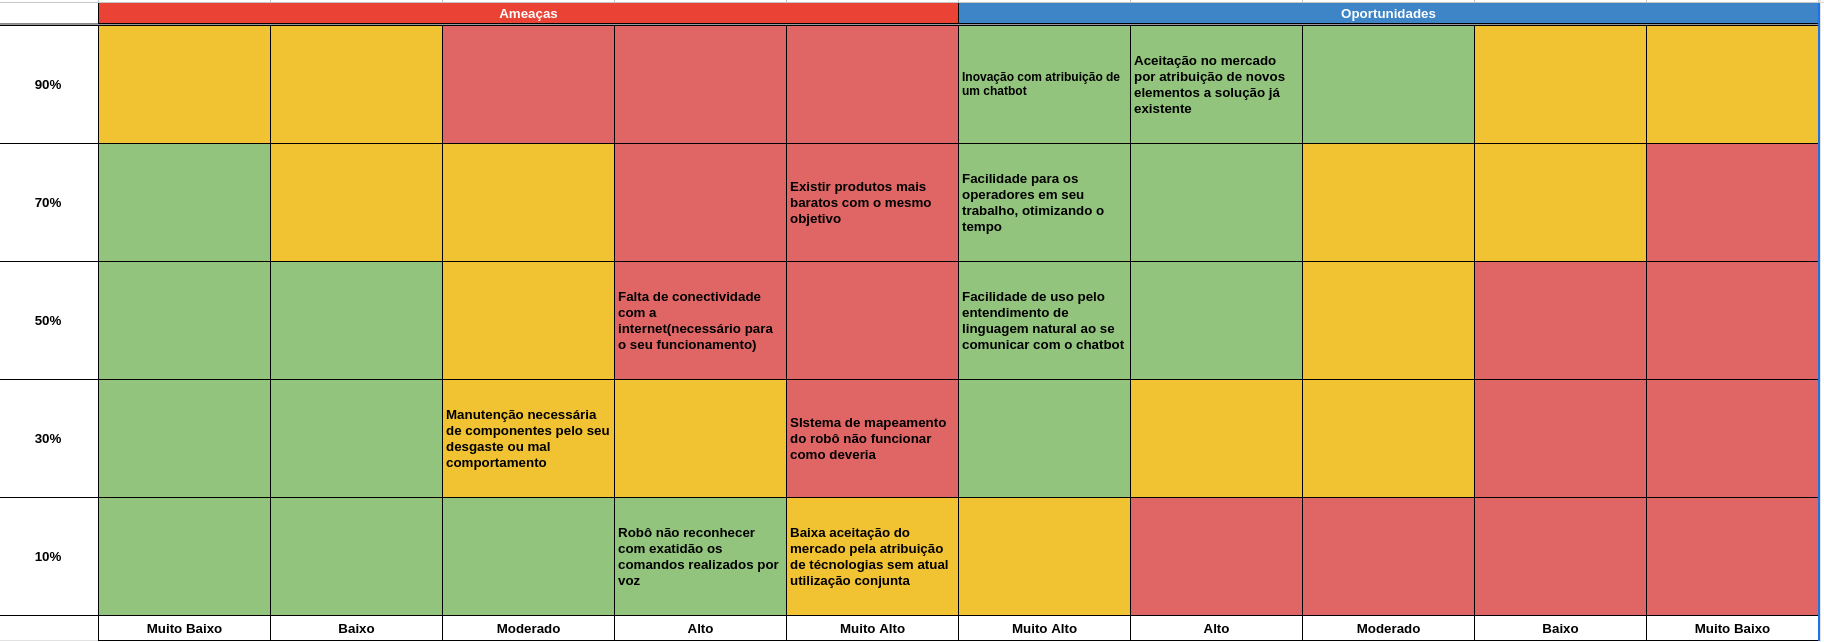
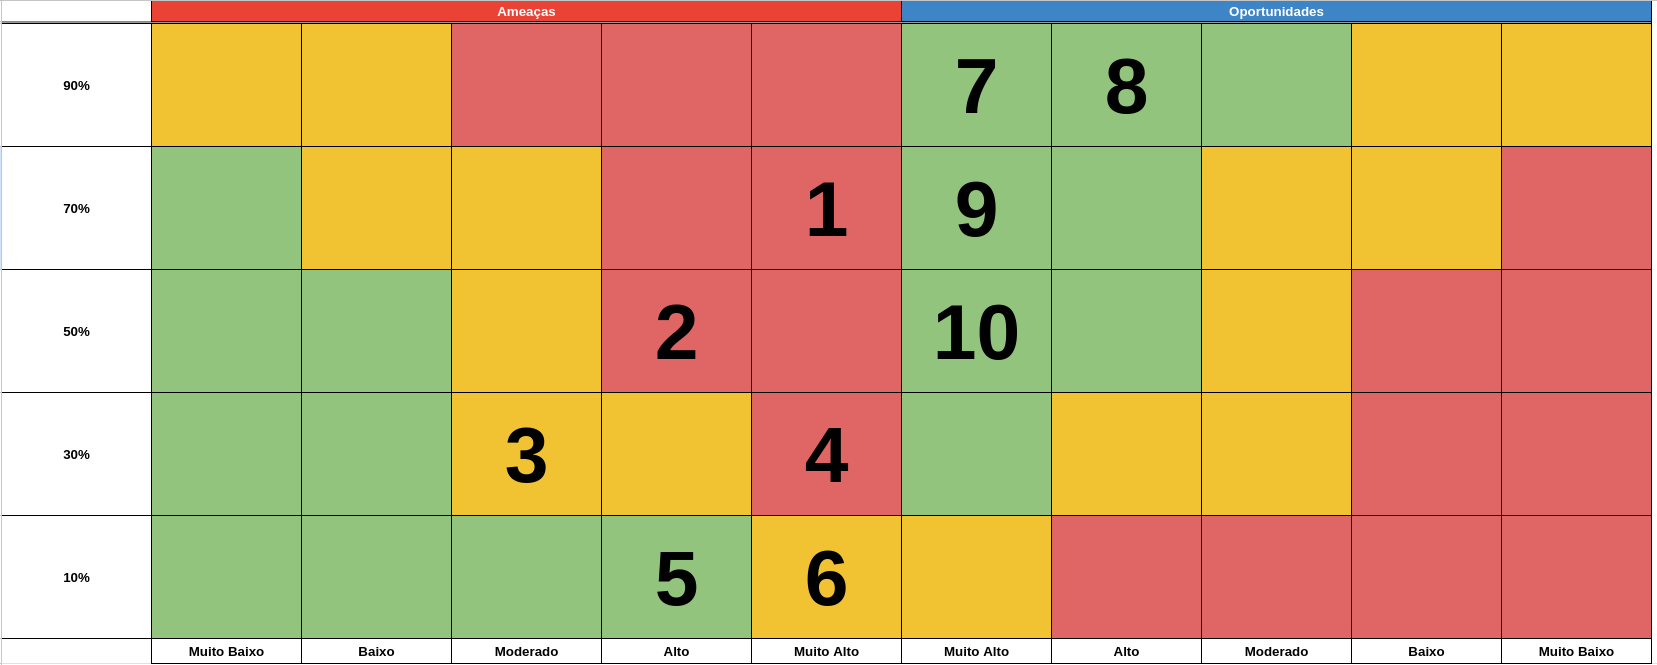
added analise financeira and matriz de riscos

diff --git a/docs/docs/business/analise-financeira.md b/docs/docs/business/analise-financeira.md
@@ -1,0 +1,37 @@
+---
+sidebar_position: 1
+---
+
+A análise financeira é uma análise fundamental para o projeto que pretendemos criar, onde o objetivo principal dessa métrica é encontrar os gastos previstos caso a Ambev decida continuar o desenvolvimento do projeto em escala industrial. Ao examinar minuciosamente os custos envolvidos, é possível ter uma previsão dos gastos considerando um ano de desenvolvimento com equipe, modelos de IA em nuvem para o processamento de Linguagem, o preço de um robô AVG indústrial e sua implementação e impostos.
+
+| Serviços MVP          | Preço p/ ano    | Preço p/ mês  |
+| --------------------- | --------------- | ------------- |
+| Equipe de projeto     | R$ 1.876.200,00 | R$ 156.350,00 |
+| NLP & Modelos         | R$ 98.625,00    | R$ 8.218,75   |
+| Robô AVG              | R$ 70.450,00    | R$ 5.870,83   |
+| Implementação         | R$ 3.554.685,00 | R$ 296.223,75 |
+| Total + Implementação | R$ 5.599.960,00 | R$ 637.102,92 |
+| Total + Imposto (18%) | R$ 6.829.219,51 | -             |
+
+Presentes na equipe encarregada pelo MVP, temos:
+- Engenheiros de Automação - 2 Juniors(2 x 10.800,00/mês) e 2 Plenos(2 x 12.000,00/mês);
+- Engenheiros de Software Embarcado - 2 Juniors(2 x 7.000,00/mês) e 2 Plenos(2 x 12.000,00/mês);
+- Engenheiros de Machine Learning - 2 Seniores(2 x 20.000,00/mês);
+- Gerente de Produtos - 1 Senior(1 x 21.000,00/mês);
+- Quality Assurance - 1 Senior(1 x 11.750,00/mês).
+
+Que juntos criam a equipe responsável pelo projeto, tornando possível a criação dos sistemas necessários.
+
+O custo associado a Robô, parte a partir do pressuposto que o robô utilizado será um Robô de tipo AGC(Automated Guide Cart), que é o mais próximo do utilizado em nossa POC, ele custará em torno de 14 mil doláres, sendo o preço de entrada para robôs direcionados a essa função.
+
+Enquanto o de modelos utilizados, parte do pressuposto que utilizaremos o IBM Watson para TTS(Text To Speech) e STT(Speech To Text) e o Amazon Comprehend para NLP(Natural Language Processing), necessários para a criação do nosso sistema de chatbot por voz.
+
+Com isso, temos também o preço de implementação e os impostos de projeto, finalizando em um total de **R$ 6.829.219,51**.
+
+| Serviço              | Preço p/ ano    | Preço p/ mês  |
+| -------------------- | --------------- | ------------- |
+| MVP                  | R$ 6.829.219,51 | R$ 569.101,63 |
+| Manutenção do produto| R$ 341.460,98   | R$ 28.455,08  |
+| Total em reais       | R$ 7.170.680,49 | R$ 597.556,71 |
+
+Caso seja necessário a manutenção pós criação do produto, estimamos o preço da manutenção necessária seja definido em 5% do valor do projeto e seus impostos somados, sendo avaliado em **R$ 341.460,98**.

diff --git a/docs/docs/business/matriz-de-risco.md b/docs/docs/business/matriz-de-risco.md
@@ -4,3 +4,23 @@ sidebar_position: 3
 
 # Matriz de Riscos
 ![Matriz de Risco Andevs](./img/matriz_de_risco.png)
+
+**1. Existir produtos mais baratos com o mesmo objetivo**: Baratear o projeto continuando com peças de alta qualidade, removendo elementos externos desnecessários
+
+**2. Falta de conectividade com a internet(necessário para o seu funcionamento)**: Armazenamento de informações já registradas localmente até ser reconectado na rede e ficando inoperante caso não esteja realizando nenhuma ação a fim de evitar problemas de funcionamento.
+
+**3. Manutenção necessária de componentes pelo seu desgaste ou mal comportamento**: O robô sinalizar caso necessite de manutenção através do LCD ou outra forma(chatbot, barulhos e afins)
+
+**4. Sistema de mapeamento do robô não funcionar como deveria**: Otimizar funções e definir padrões de qualidade a fim de criar um sistema mais conciso
+
+**5. Robô não reconhecer com exatidão os comandos realizados por voz**: Criar um padrão de qualidade para que o aúdio seja aceito e utilizar bibliotecas de manipulação de aúdio para eliminar ruidos e afins antes de enviar para processamento.
+
+**6. Baixa aceitação do mercado pela atribuição de técnologias sem atual utilização conjunta**: Demonstrar a importância da junção dessas tecnologias em questões de acessibilidade e a facilitação de tarefas e entendimento necessário.
+
+**7. Inovação com atribuição de um chatbot**: A atribuição de um chatbot promove a acessibilidade a pessoas com dificuldade para se expressar, além de possuir TTS(Text To Speech) e STT(Speech To Text) em junção ao chat para pessoas cegas.
+
+**8. Aceitação no mercado por atribuição de novos elementos a solução já existente**: Atribuição do projeto por parte da AMBEV e outras empresas, buscando transformar o sistema em escala indústrial
+
+**9. Facilidade para os operadores em seu trabalho, otimizando o tempo**: Diminuição do estresse por parte dos operadores, otimização do tempo e disponibilizando realocação de grande parte dos operadores responsáveis para outras tarefas mais essênciais
+
+**10. Facilidade de uso pelo entendimento de linguagem natural ao seestaduais e internacionais) comunicar com o chatbot**: Acessibilidade para pessoas cegas ao utilizar TTS(Text To Speech), STT(Speech To Text) e diminuição de barreiras linguísticas(por questões de linguagem e girias de cada localidade).
